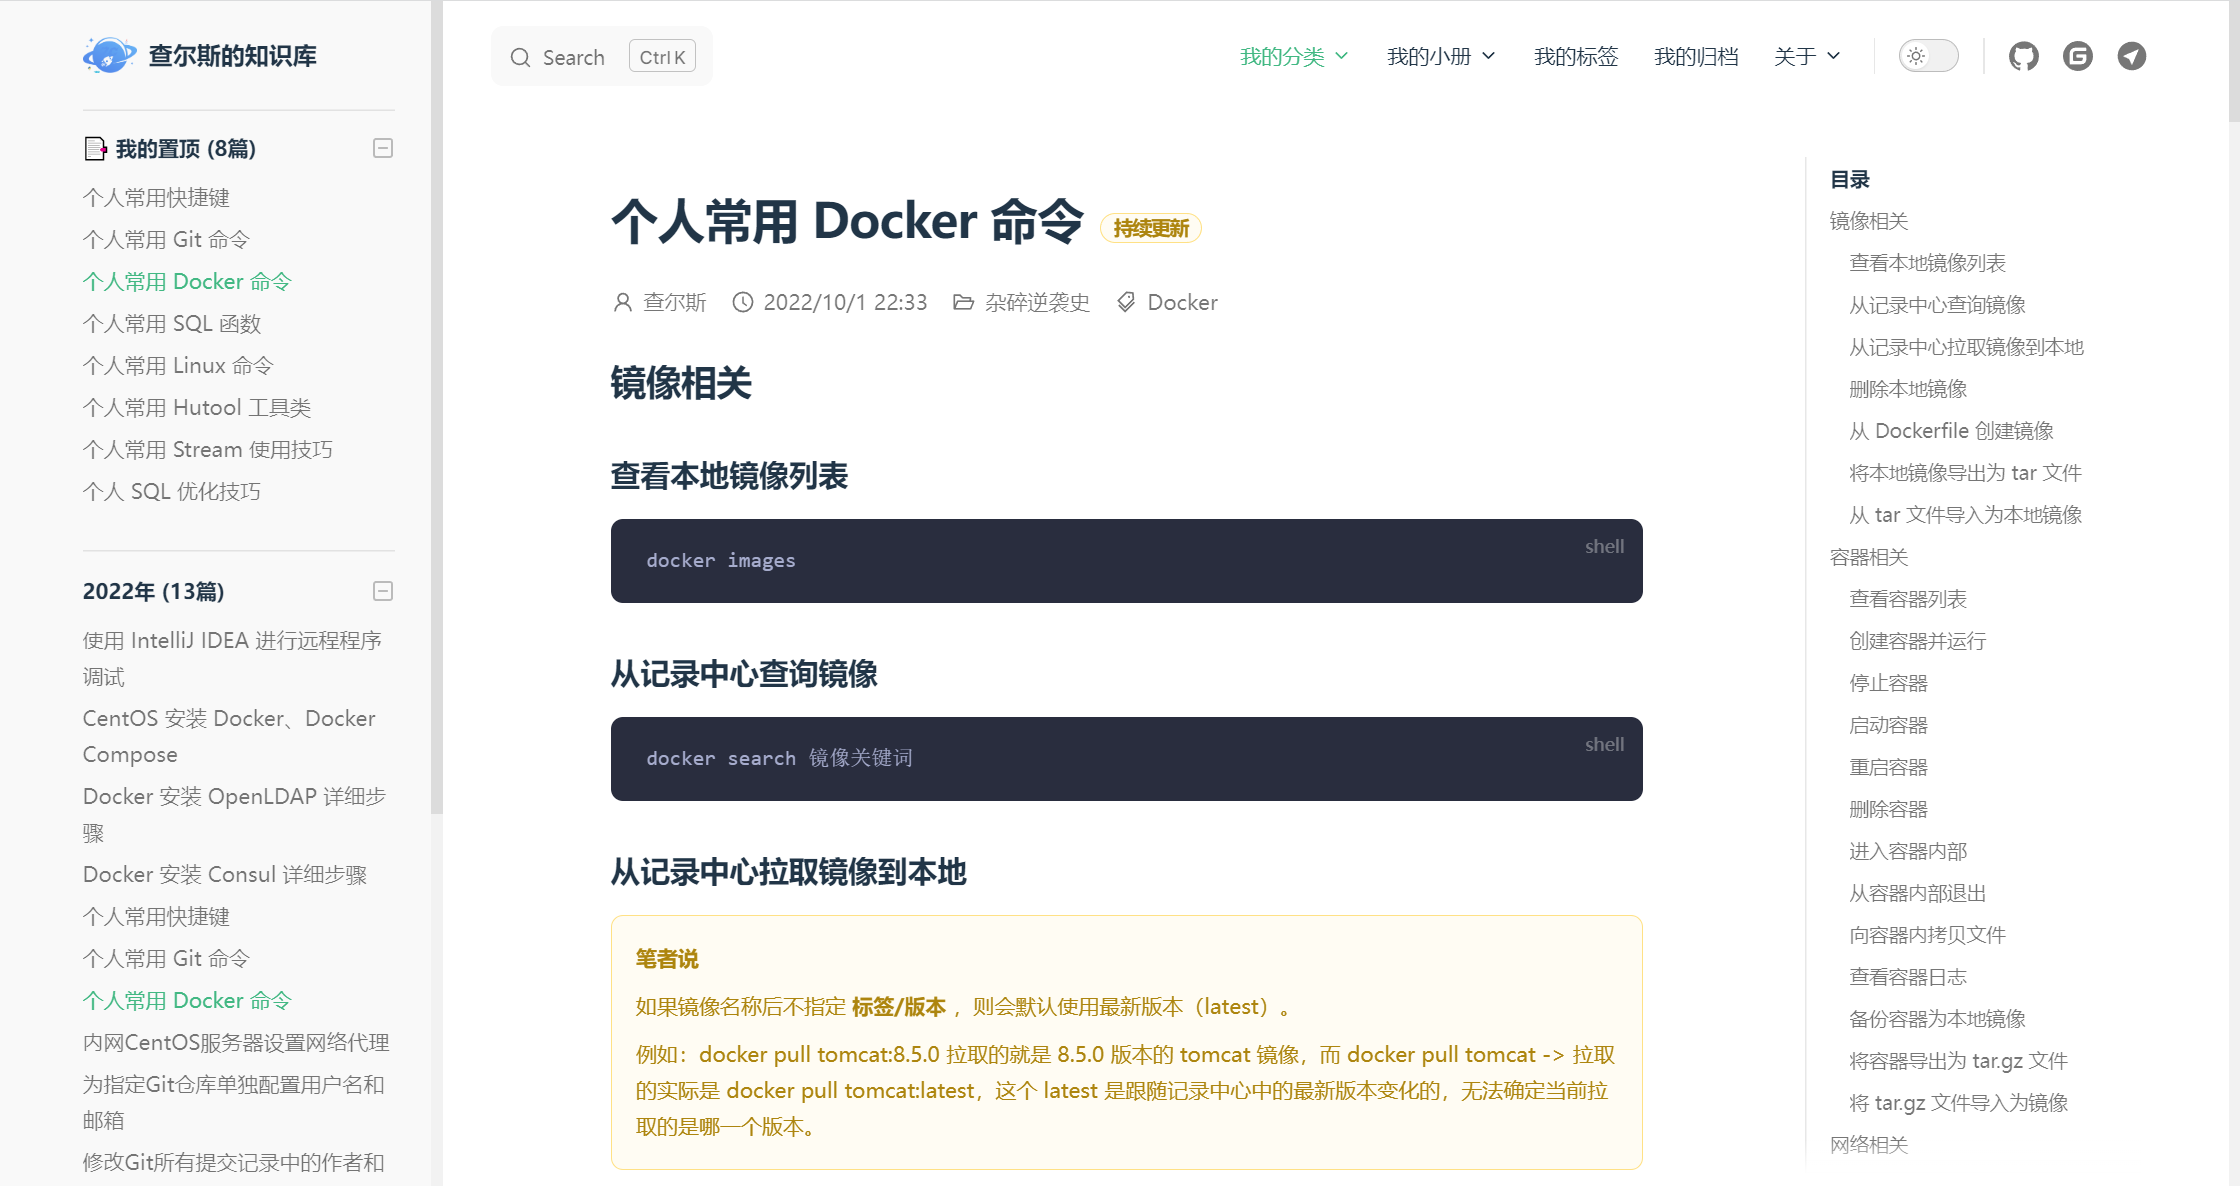
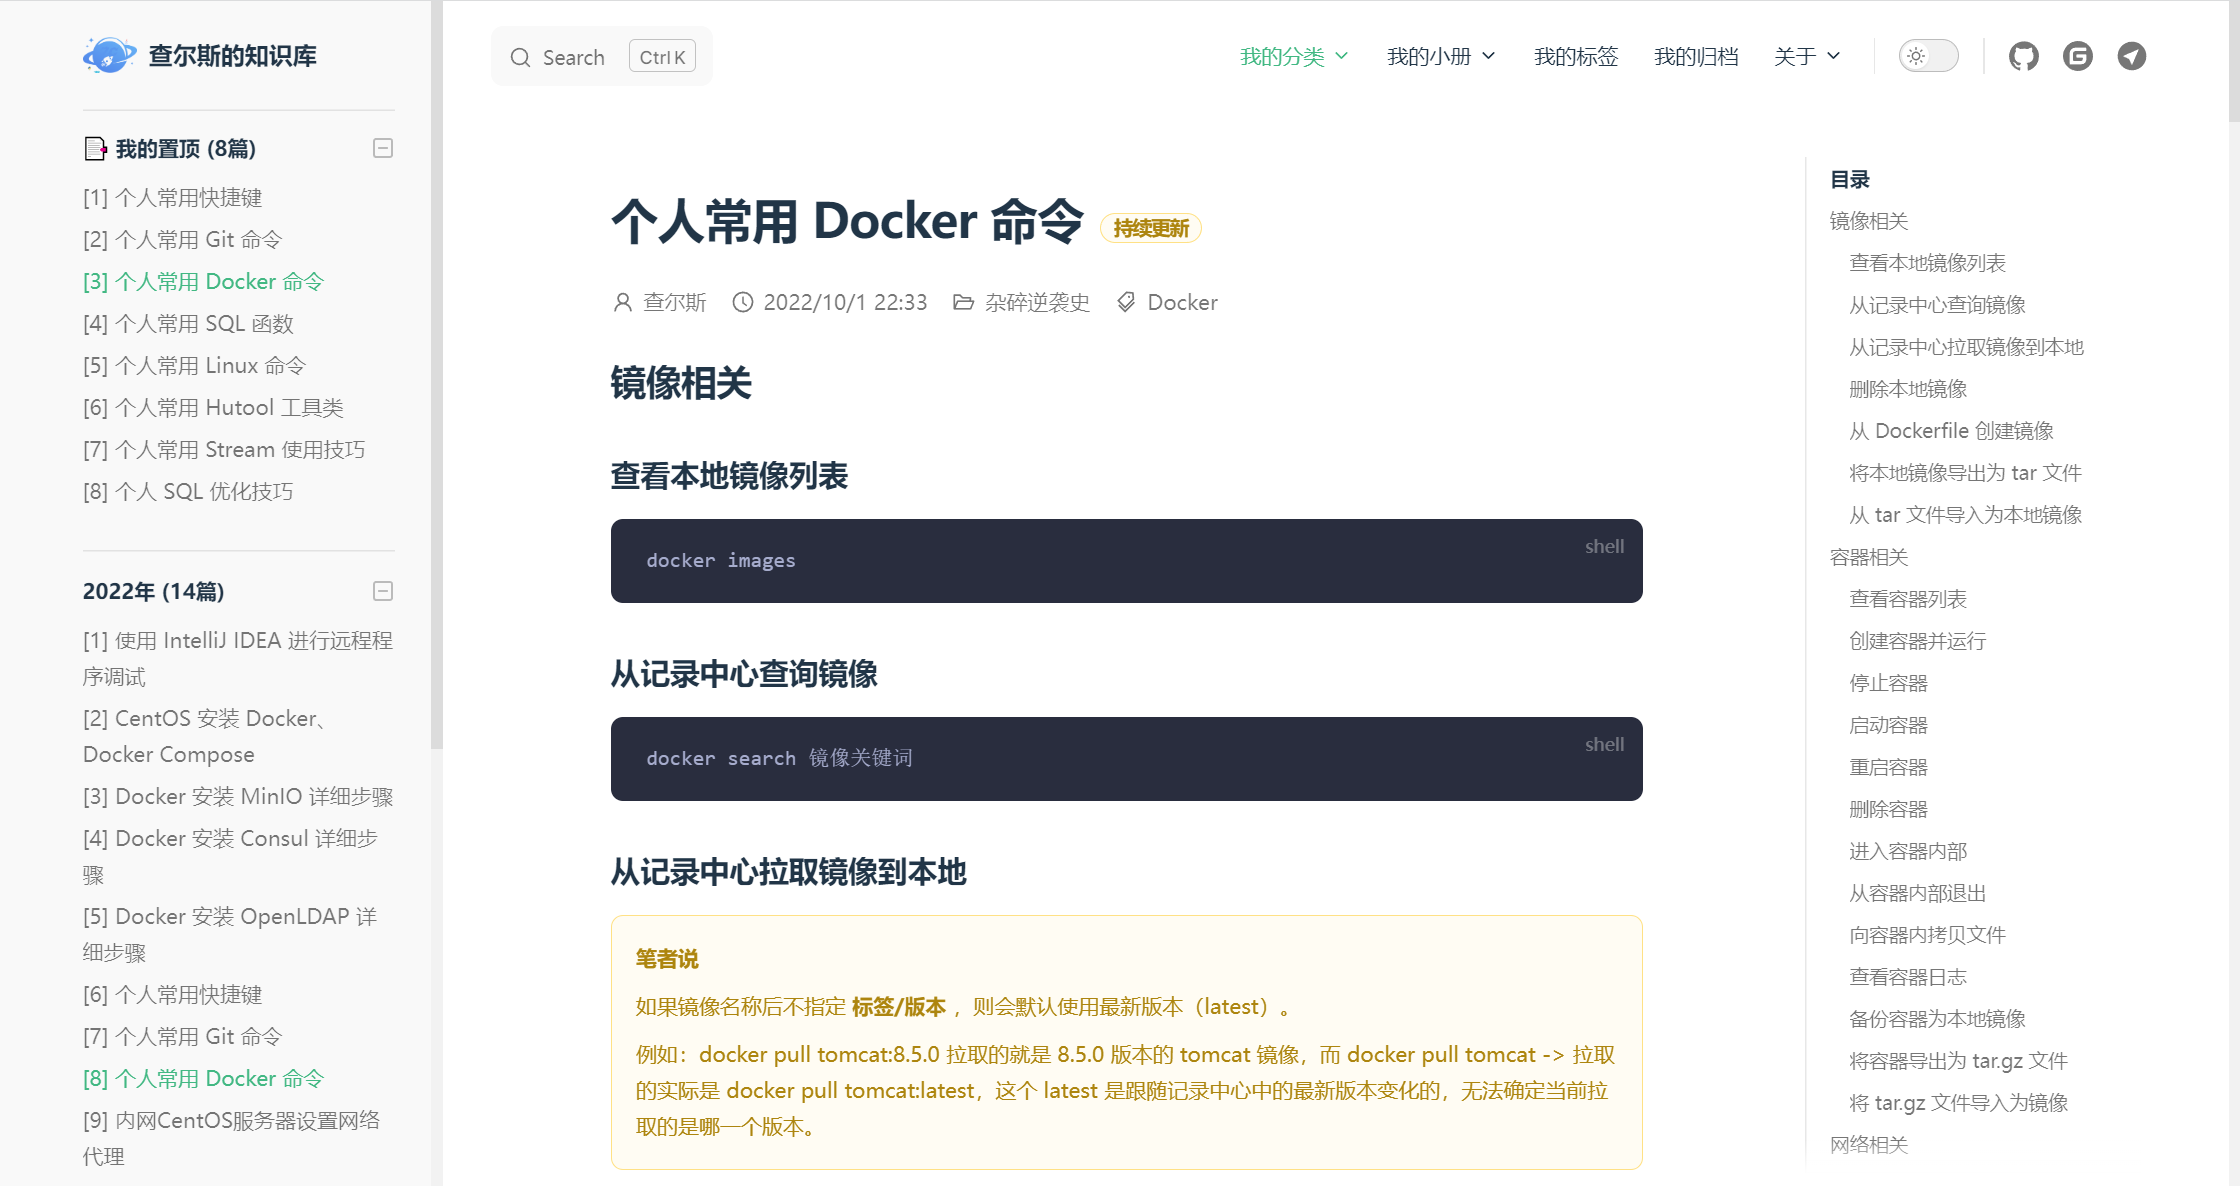
新增：《Docker 安装 MinIO 详细步骤》（将 VitePress 版本升级为 v1.0.0-alpha.29）

Changed region(s): [[0.0312, 0.5304, 0.1875, 0.9983], [0.0312, 0.156, 0.1562, 0.4368]]

diff --git a/docs/categories/fragments/2022/10/28/Docker安装MinIO.md b/docs/categories/fragments/2022/10/28/Docker安装MinIO.md
@@ -1,0 +1,125 @@
+---
+title: Docker 安装 MinIO 详细步骤
+author: 查尔斯
+date: 2022/10/28 22:37
+categories:
+ - 杂碎逆袭史
+tags:
+ - MinIO
+ - Docker
+ - 容器
+showComment: false
+---
+
+# Docker 安装 MinIO 详细步骤
+
+::: tip 笔者说
+笔者下面的步骤及配置是基于指定版本的实践，大多数程序大多数情况下在相差不大的版本时可以直接参考。（当然了，即使是非 Docker 方式安装程序也是一样道理）  
+:::
+
+## 拉取镜像
+
+::: warning 笔者说
+拉取镜像时需要明确镜像版本（Tag）。
+:::
+
+不指定版本（Tag）就拉取镜像，那拉取下来的镜像版本（Tag）默认是 `latest`（最新的）。`latest` 会跟随 Docker Registry 中的记录变化，现在拉取下来的 `latest` 是 x1 版本，但隔了一段时间后你在其他机器上再拉取 `latest` 可能就是 x2 版本了。
+
+变化的版本，不利于生产环境部署的稳定。无论是后续在其他环境部署还是扩容集群等场景均要求根据架构要求指定好版本。
+
+```shell
+docker pull minio/minio:RELEASE.2022-08-02T23-59-16Z.fips
+```
+
+## 运行容器
+
+::: warning 笔者说
+**下方的配置，切记要根据个人实际情况来修改。**  
+:::
+
+- 容器的名称
+- 镜像名称:版本
+- 是否设置自启动？
+- 是否端口映射？
+- 环境变量配置
+- 映射的话映射到宿主机哪个端口？
+- 是否挂载卷？
+- 挂载的话要挂载宿主机哪个目录？
+- ......
+- 等自定义配置
+
+```shell
+# MINIO_ACCESS_KEY：用户名，默认为 minioadmin
+# MINIO_SECRET_KEY：用户密码，默认为 minioadmin
+# MINIO_COMPRESS：开启压缩 on 开启 off 关闭
+# MINIO_COMPRESS_EXTENSIONS：扩展名 .pdf,.doc 为空 所有类型均压缩
+# MINIO_COMPRESS_MIME_TYPES：mime 类型 application/pdf 为空 所有类型均压缩
+# MINIO_SERVER_URL：HTTPS 需要指定服务域名，例如：https://xxx.com:9000
+# MINIO_BROWSER_REDIRECT_URL：HTTPS 需要指定服务域名，例如：https://xxx.com:9001
+docker run -d \
+--name minio minio/minio:RELEASE.2022-08-02T23-59-16Z.fips \
+--restart=always \
+-e TZ="Asia/Shanghai" \
+-e MINIO_ACCESS_KEY="minioadmin" \
+-e MINIO_SECRET_KEY="minioadmin" \
+-e MINIO_COMPRESS="off" \
+-e MINIO_COMPRESS_EXTENSIONS="" \
+-e MINIO_COMPRESS_MIME_TYPES="" \
+-p 9000:9000 -p 9001:9001 \
+-v /opt/disk/docker/volumes/minio/conf:/root/.minio \
+-v /opt/disk/docker/volumes/minio/data:/data \
+server --address ':9000' --console-address ':9001' /data \
+# 使用该参数，容器内的 root 用户才拥有真正的 root 权限
+--privileged=true
+```
+
+## 验证
+
+服务器开放好相应端口或设置好安全组规则后，访问 `http://宿主机IP:映射的端口` （例如按上方配置那就是：http://宿主机IP:9001）即可看到 MinIO 管理界面。
+
+![202210282235156](../../../../../public/img/2022/10/28/202210282235156.png)
+
+输入你刚才指定的用户名、密码，登录进来后，可以看到当前一个 Bucket 也没有，可以点击右侧的 [Create Bucket] 来创建。
+
+![202210282236211](../../../../../public/img/2022/10/28/202210282236211.png)
+
+## Docker Compose脚本
+
+如果你是用的 docker-compose 来安装，下方附上相应 docker-compose.yml 脚本内容。
+
+```yaml
+version: '3'
+services:
+  minio:
+    container_name: minio
+    image: minio/minio:RELEASE.2022-08-02T23-59-16Z.fips
+    restart: always
+    environment:
+      TZ: Asia/Shanghai
+      MINIO_ACCESS_KEY: minioadmin
+      MINIO_SECRET_KEY: minioadmin
+      # HTTPS 需要指定域名
+      #MINIO_SERVER_URL: 'https://xxx.com:9000'
+      #MINIO_BROWSER_REDIRECT_URL: 'https://xxx.com:9001'
+      # 开启压缩 on 开启 off 关闭
+      MINIO_COMPRESS: 'off'
+      # 扩展名 .pdf,.doc 为空 所有类型均压缩
+      MINIO_COMPRESS_EXTENSIONS: ''
+      # mime 类型 application/pdf 为空 所有类型均压缩
+      MINIO_COMPRESS_MIME_TYPES: ''
+    ports:
+      - 9000:9000
+      - 9001:9001
+    volumes:
+      - /opt/disk/docker/volumes/minio/conf:/root/.minio
+      - /opt/disk/docker/volumes/minio/data:/data
+    command: server --address ':9000' --console-address ':9001' /data
+    privileged: true
+```
+
+编写好 docker-compose.yml 脚本后，在脚本同级目录执行下方命令即可。
+
+```shell
+docker-compose up -d
+```
+

diff --git a/docs/categories/issues/2022/11/06/解决DotNET安装后报错的问题.md b/docs/categories/issues/2022/11/06/解决DotNET安装后报错的问题.md
@@ -1,20 +1,20 @@
 ---
-title: 解决 DotNET 安装完，报错：Couldn't find a valid ICU package installed on the system. Please install libicu using your package manager and try again
+title: 解决 DotNet 安装完，报错：Couldn't find a valid ICU package installed on the system. Please install libicu using your package manager and try again
 author: 查尔斯
 date: 2022/11/06 15:35
 categories:
  - Bug万象集
 tags:
- - DotNET
+ - DotNet
  - Linux
  - CentOS
 ---
 
-# 解决 DotNET 安装完，报错：Couldn't find a valid ICU package installed on the system. Please install libicu using your package manager and try again
+# 解决 DotNet 安装完，报错：Couldn't find a valid ICU package installed on the system. Please install libicu using your package manager and try again
 
 ## 问题描述
 
-**C：** 今天，笔者在一台 CentOS 7.9 服务器上手动安装完 DotNET 6.0.401 并配置好了环境变量之后，照例想查看一下是否安装成功。
+**C：** 今天，笔者在一台 CentOS 7.9 服务器上手动安装完 DotNet 6.0.401 并配置好了环境变量之后，照例想查看一下是否安装成功。
 
 ```shell
 dotnet --version

diff --git a/docs/categories/fragments/2022/02/16/个人常用SQL函数.md b/docs/categories/fragments/2022/02/16/个人常用SQL函数.md
@@ -65,7 +65,7 @@ TRUNCATE TABLE 表名;
      CONCAT('TRUNCATE TABLE ', TABLE_NAME, ';')
    FROM 
      information_schema.TABLES
-   WHERE TABLES_SCHEMA = '数据库名';
+   WHERE TABLE_SCHEMA = '数据库名';
    ```
 
 2. 将执行结果复制，直接执行即可
@@ -87,7 +87,7 @@ DROP TABLE 表名;
      CONCAT('DROP TABLE IF EXISTS ', TABLE_NAME, ';')
    FROM 
      information_schema.TABLES
-   WHERE TABLES_SCHEMA = '数据库名';
+   WHERE TABLE_SCHEMA = '数据库名';
    ```
 
 2. 将执行结果复制，直接执行即可

diff --git a/README.md b/README.md
@@ -72,6 +72,7 @@ pnpm build
 - [x] 更多细节优化：敬请发现
   - [x] 文章内图片增加圆角样式优化（[#56](https://github.com/Charles7c/charles7c.github.io/issues/56)）
   - [x] 浏览器滚动条样式优化（支持 Firfox、谷歌系浏览器）（[#69](https://github.com/Charles7c/charles7c.github.io/pull/69)）
+  - [x] 侧边栏分组中的文章列表增加序号显示
   - [x] ......
 
 
